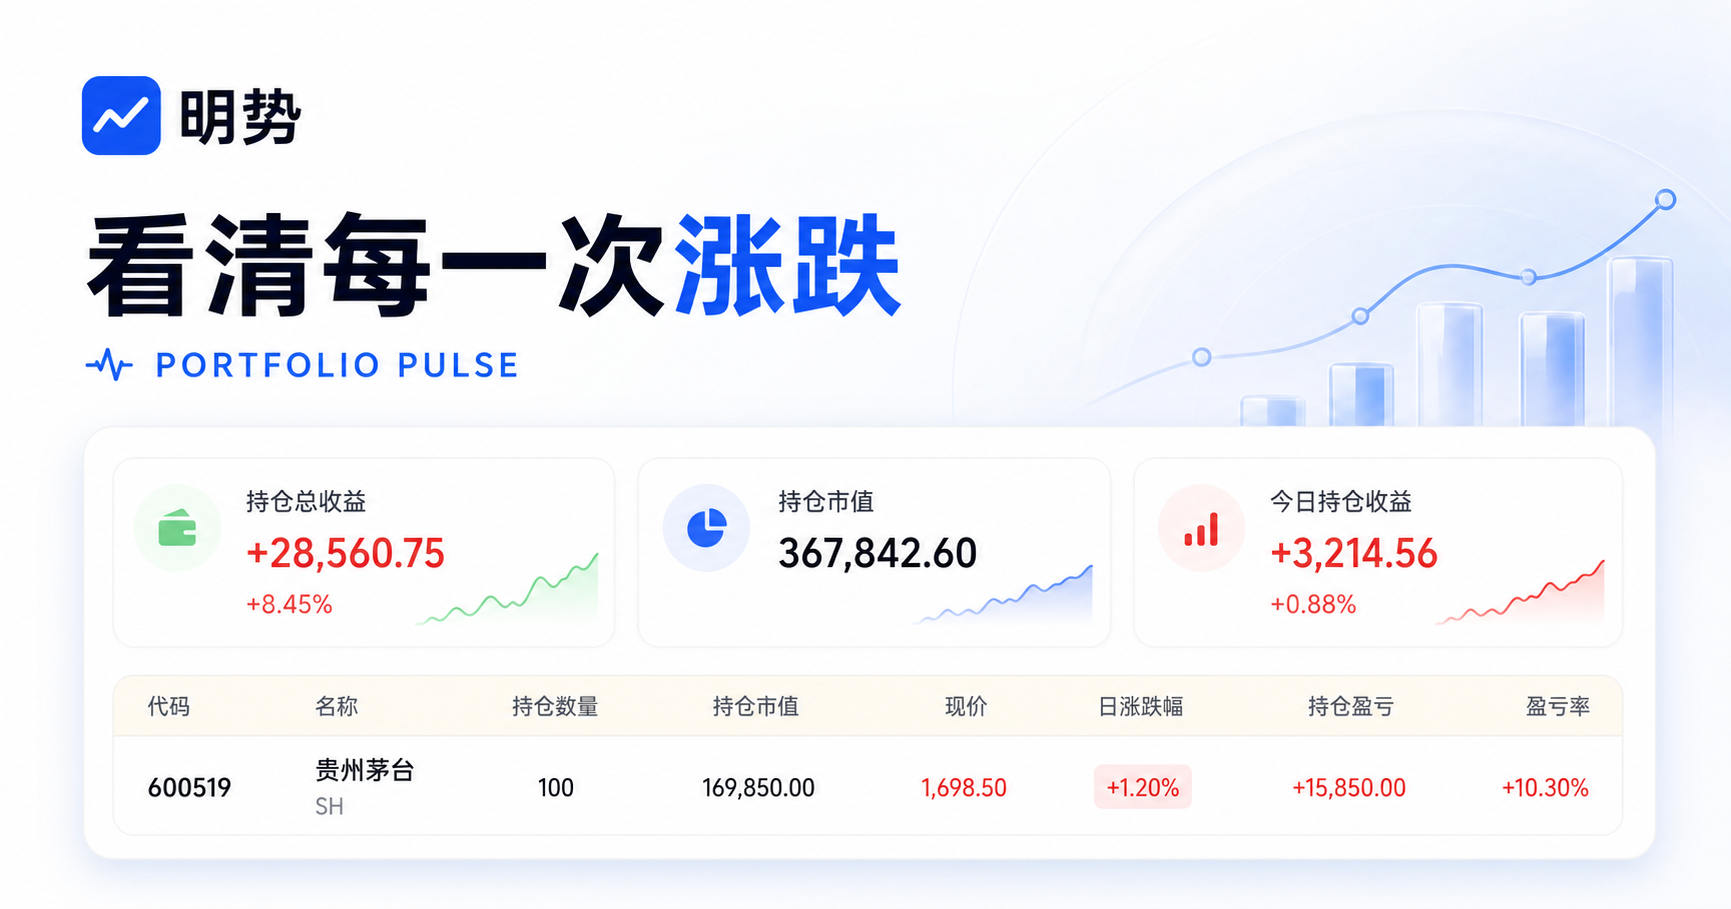
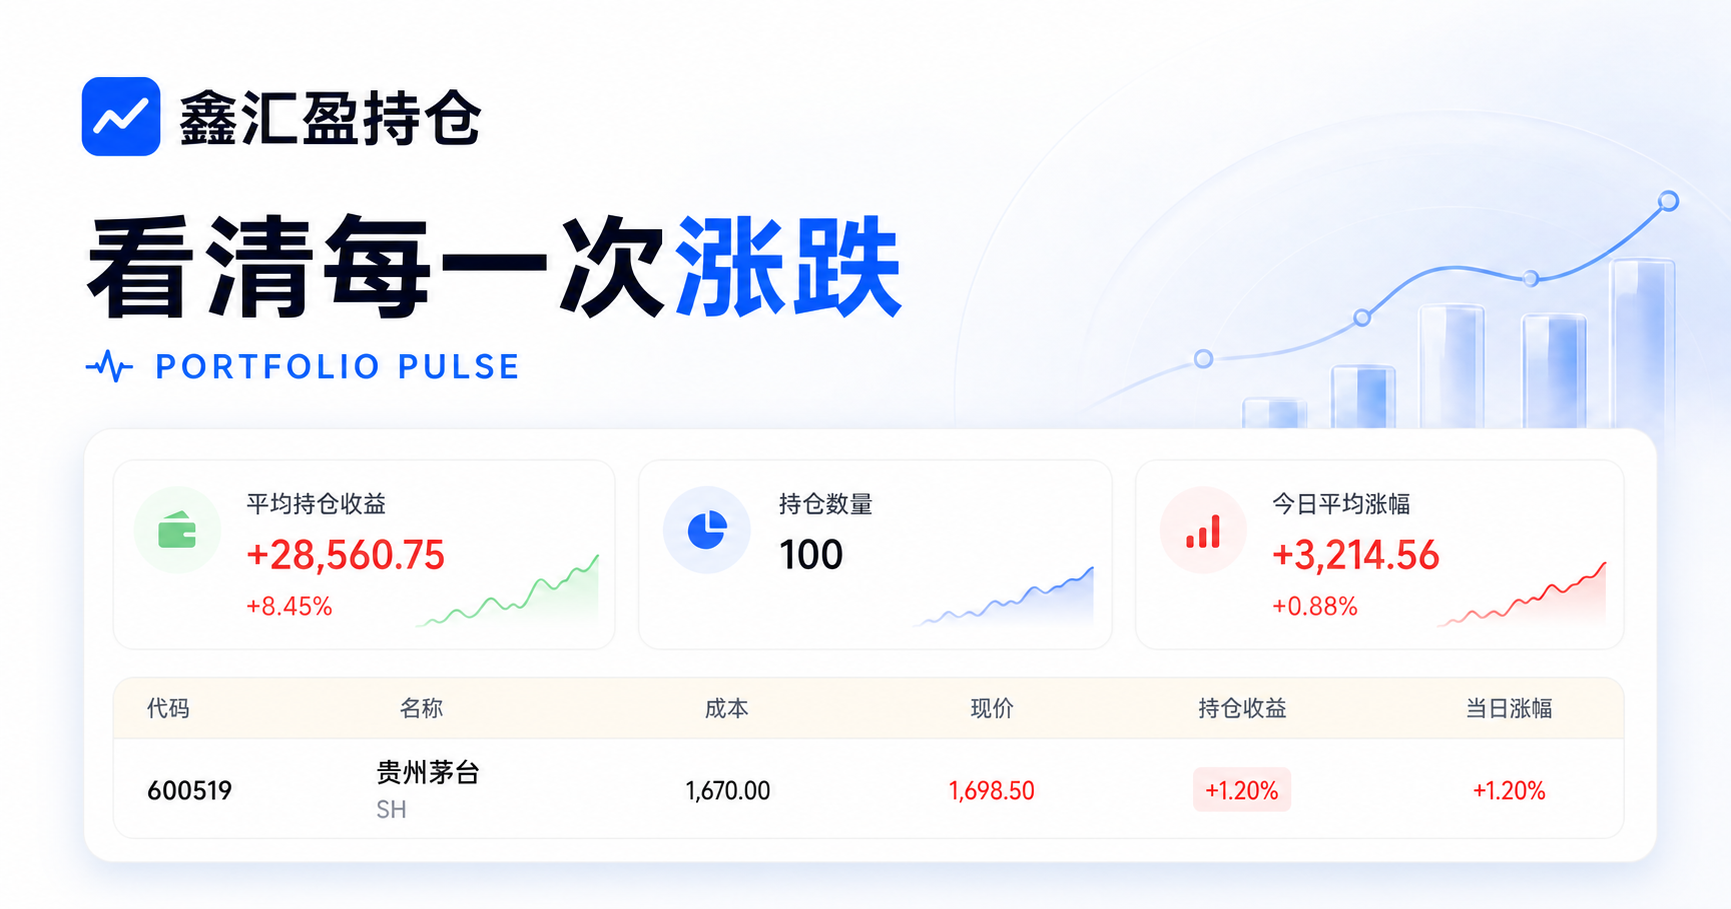
Remove share count and rename dashboard

diff --git a/app/page.tsx b/app/page.tsx
@@ -2,11 +2,11 @@
 
 import { useCallback, useEffect, useMemo, useState } from "react";
 
-type Holding = { secid:string; code:string; name:string; market:string; cost:number; qty:number };
+type Holding = { secid:string; code:string; name:string; market:string; cost:number };
 type Quote = { secid:string; code:string; name:string; price:number; prevClose:number; changePct:number; time:string };
 type Suggestion = { secid:string; code:string; name:string; market:string };
 
-const seed: Holding[] = [{ secid:"1.601985", code:"601985", name:"中国核电", market:"SH", cost:8.9, qty:1000 }];
+const seed: Holding[] = [{ secid:"1.601985", code:"601985", name:"中国核电", market:"SH", cost:8.9 }];
 const money = (n:number) => new Intl.NumberFormat("zh-CN",{style:"currency",currency:"CNY",minimumFractionDigits:2}).format(n);
 const signed = (n:number,suffix="%") => `${n>0?"+":n<0?"−":""}${Math.abs(n).toFixed(2)}${suffix}`;
 
@@ -18,7 +18,6 @@ export default function Home() {
   const [suggestions,setSuggestions] = useState<Suggestion[]>([]);
   const [selected,setSelected] = useState<Suggestion|null>(null);
   const [cost,setCost] = useState("");
-  const [qty,setQty] = useState("100");
   const [loading,setLoading] = useState(false);
   const [updated,setUpdated] = useState("正在连接行情");
   const [error,setError] = useState("");
@@ -47,36 +46,37 @@ export default function Home() {
   },[query,selected]);
 
   const stats=useMemo(()=>{
-    let value=0,costValue=0,today=0,prev=0;
-    holdings.forEach(h=>{const q=quotes[h.secid];if(!q)return;value+=q.price*h.qty;costValue+=h.cost*h.qty;today+=(q.price-q.prevClose)*h.qty;prev+=q.prevClose*h.qty});
-    return {value,profit:value-costValue,profitPct:costValue?(value-costValue)/costValue*100:0,today,todayPct:prev?today/prev*100:0};
+    const active=holdings.map(h=>({h,q:quotes[h.secid]})).filter(x=>x.q);
+    const profitPct=active.length?active.reduce((s,{h,q})=>s+(q.price-h.cost)/h.cost*100,0)/active.length:0;
+    const todayPct=active.length?active.reduce((s,{q})=>s+q.changePct,0)/active.length:0;
+    return {profitPct,todayPct};
   },[holdings,quotes]);
 
-  function close(){setModal(false);setQuery("");setSelected(null);setCost("");setQty("100");setSuggestions([])}
-  function add(){if(!selected||Number(cost)<=0||Number(qty)<=0)return;setHoldings(v=>[...v.filter(h=>h.secid!==selected.secid),{...selected,cost:Number(cost),qty:Number(qty)}]);close()}
+  function close(){setModal(false);setQuery("");setSelected(null);setCost("");setSuggestions([])}
+  function add(){if(!selected||Number(cost)<=0)return;setHoldings(v=>[...v.filter(h=>h.secid!==selected.secid),{...selected,cost:Number(cost)}]);close()}
   function choose(s:Suggestion){setSelected(s);setQuery(`${s.name}  ${s.code}.${s.market}`);setSuggestions([])}
 
   return <main>
-    <header className="topbar"><div className="brand"><span className="brandMark">↗</span><span>明势</span></div><div className="market"><i /> A股行情 <span>{loading?"更新中…":`更新于 ${updated}`}</span></div></header>
+    <header className="topbar"><div className="brand"><span className="brandMark">↗</span><span>鑫汇盈持仓</span></div><div className="market"><i /> A股行情 <span>{loading?"更新中…":`更新于 ${updated}`}</span></div></header>
     <section className="hero"><div><p className="eyebrow">PORTFOLIO PULSE</p><h1>看清每一次涨跌</h1><p className="subtitle">把关注的持仓放在一起，价格、涨幅和收益一目了然。</p></div><button className="primary" onClick={()=>setModal(true)}>＋ 添加个股</button></section>
     <section className="summary">
-      <div><span>持仓总收益</span><strong className={stats.profit>=0?"up":"down"}>{money(stats.profit)}</strong><small>{signed(stats.profitPct)}</small></div>
-      <div><span>持仓市值</span><strong>{money(stats.value)}</strong><small>{holdings.length} 个持仓</small></div>
-      <div><span>今日持仓收益</span><strong className={stats.today>=0?"up":"down"}>{money(stats.today)}</strong><small>{signed(stats.todayPct)} · 盘中</small></div>
+      <div><span>平均持仓收益</span><strong className={stats.profitPct>=0?"up":"down"}>{signed(stats.profitPct)}</strong><small>按个股等权计算</small></div>
+      <div><span>持仓数量</span><strong>{holdings.length}</strong><small>只股票</small></div>
+      <div><span>今日平均涨幅</span><strong className={stats.todayPct>=0?"up":"down"}>{signed(stats.todayPct)}</strong><small>实时行情 · 盘中</small></div>
     </section>
     <section className="card">
       <div className="cardHead"><div><h2>我的持仓</h2><p>{error||"每 15 秒自动刷新 · 公开行情数据仅供参考"}</p></div><button className="refresh" onClick={refresh} disabled={loading}>{loading?"刷新中":"↻ 刷新"}</button></div>
-      <div className="tableWrap"><table><thead><tr><th>代码 / 名称</th><th>成本</th><th>现价</th><th>持仓收益</th><th>当日涨幅</th><th>市值</th><th /></tr></thead><tbody>
-        {holdings.map(h=>{const q=quotes[h.secid];const price=q?.price||0;const gain=h.cost?(price-h.cost)/h.cost*100:0;const gainMoney=(price-h.cost)*h.qty;return <tr key={h.secid}><td><b>{q?.name||h.name}</b><span>{h.code}.{h.market}</span></td><td>{money(h.cost)}<span>{h.qty.toLocaleString()} 股</span></td><td>{q?<b>{money(price)}</b>:<span className="skeleton">获取中</span>}</td><td className={gainMoney>=0?"up":"down"}><b>{q?signed(gain):"—"}</b><span>{q?money(gainMoney):"—"}</span></td><td><em className={`pill ${(q?.changePct||0)>=0?"up":"down"}`}>{q?signed(q.changePct):"—"}</em></td><td><b>{q?money(price*h.qty):"—"}</b></td><td><button className="remove" aria-label={`删除${h.name}`} onClick={()=>setHoldings(v=>v.filter(x=>x.secid!==h.secid))}>×</button></td></tr>})}
-        {!holdings.length&&<tr><td colSpan={7} className="empty"><b>还没有持仓</b><span>添加一只股票，行情会自动出现在这里。</span><button onClick={()=>setModal(true)}>添加第一只</button></td></tr>}
+      <div className="tableWrap"><table><thead><tr><th>代码 / 名称</th><th>成本</th><th>现价</th><th>持仓收益</th><th>当日涨幅</th><th /></tr></thead><tbody>
+        {holdings.map(h=>{const q=quotes[h.secid];const price=q?.price||0;const gain=h.cost?(price-h.cost)/h.cost*100:0;return <tr key={h.secid}><td><b>{q?.name||h.name}</b><span>{h.code}.{h.market}</span></td><td>{money(h.cost)}</td><td>{q?<b>{money(price)}</b>:<span className="skeleton">获取中</span>}</td><td className={gain>=0?"up":"down"}><b>{q?signed(gain):"—"}</b></td><td><em className={`pill ${(q?.changePct||0)>=0?"up":"down"}`}>{q?signed(q.changePct):"—"}</em></td><td><button className="remove" aria-label={`删除${h.name}`} onClick={()=>setHoldings(v=>v.filter(x=>x.secid!==h.secid))}>×</button></td></tr>})}
+        {!holdings.length&&<tr><td colSpan={6} className="empty"><b>还没有持仓</b><span>添加一只股票，行情会自动出现在这里。</span><button onClick={()=>setModal(true)}>添加第一只</button></td></tr>}
       </tbody></table></div>
     </section>
     <footer>投资有风险，市场行情可能存在延迟，本看板不构成投资建议。</footer>
     {modal&&<div className="overlay" onMouseDown={e=>e.target===e.currentTarget&&close()}><div className="modal" role="dialog" aria-modal="true" aria-label="添加持仓"><button className="close" onClick={close}>×</button><p className="eyebrow">NEW POSITION</p><h2>添加一只持仓</h2><p className="modalLead">输入股票名称或 6 位代码，我们会自动匹配。</p>
       <label>股票</label><div className="searchBox"><span>⌕</span><input autoFocus value={query} placeholder="例如：中国核电 / 601985" onChange={e=>{setQuery(e.target.value);setSelected(null)}} /></div>
       {!!suggestions.length&&<div className="suggestions">{suggestions.map(s=><button key={s.secid} onClick={()=>choose(s)}><span><b>{s.name}</b><small>{s.code}.{s.market}</small></span><i>选择</i></button>)}</div>}
-      <div className="formRow"><div><label>持仓成本（元）</label><input type="number" min="0" step="0.01" value={cost} placeholder="8.90" onChange={e=>setCost(e.target.value)} /></div><div><label>持仓数量（股）</label><input type="number" min="1" step="100" value={qty} onChange={e=>setQty(e.target.value)} /></div></div>
-      <button className="submit" disabled={!selected||Number(cost)<=0||Number(qty)<=0} onClick={add}>添加到看板</button>
+      <div className="formRow"><div><label>持仓成本（元）</label><input type="number" min="0" step="0.01" value={cost} placeholder="8.90" onChange={e=>setCost(e.target.value)} /></div></div>
+      <button className="submit" disabled={!selected||Number(cost)<=0} onClick={add}>添加到看板</button>
     </div></div>}
   </main>
 }

diff --git a/app/globals.css b/app/globals.css
@@ -7,4 +7,5 @@ main{min-height:100vh;background:radial-gradient(circle at 90% 0,#e9efff 0,trans
 .summary{max-width:1128px;margin:0 auto 20px;display:grid;grid-template-columns:1.15fr 1fr 1fr;background:#fff;border:1px solid var(--line);border-radius:18px;box-shadow:0 12px 40px #14233d0a;overflow:hidden}.summary div{padding:22px 26px;display:grid;gap:7px}.summary div+div{border-left:1px solid var(--line)}.summary span,.summary small{color:var(--muted);font-size:12px}.summary strong{font-size:25px;letter-spacing:-.5px}.summary small{display:block}.down{color:var(--green)!important}.up{color:var(--red)!important}
 .card{max-width:1128px;margin:0 auto 80px;background:#fff;border:1px solid var(--line);border-radius:18px;box-shadow:0 12px 40px #14233d0a;overflow:hidden}.cardHead{padding:24px 26px 18px;display:flex;justify-content:space-between;align-items:center}.cardHead h2{font-size:18px;margin:0 0 5px}.cardHead p{font-size:12px;color:#929cab;margin:0}.refresh{border:1px solid var(--line);background:#fff;border-radius:10px;padding:9px 13px;color:#667282}.tableWrap{overflow:auto}table{width:100%;border-collapse:collapse}th{background:var(--cream);color:#9a7d40;text-align:left;font-size:11px;letter-spacing:.06em;padding:13px 26px}td{padding:20px 26px;border-top:1px solid var(--line);font-size:14px}td span{display:block;color:#929cab;font-size:11px;margin-top:5px}td b{font-size:15px}.pill{font-style:normal;padding:7px 10px;border-radius:8px;background:#eaf8f1;font-weight:700;font-size:13px}.pill.up{background:#fff0f1}.remove{width:30px;height:30px;border:0;border-radius:9px;background:transparent;color:#b1b8c2;font-size:20px;cursor:pointer}.remove:hover{background:#fff0f1;color:var(--red)}.refresh:disabled{opacity:.55}.skeleton{display:inline-block!important;background:#eef1f5;color:#9ba4b0!important;border-radius:6px;padding:5px 9px;margin:0!important}.empty{text-align:center!important;padding:55px!important;color:#8b95a3}.empty b,.empty span{display:block}.empty span{margin:8px 0 18px}.empty button{border:0;background:#edf2ff;color:var(--blue);border-radius:9px;padding:9px 13px;font-weight:700}footer{text-align:center;color:#9aa3af;font-size:11px;padding:0 20px 28px}
 .overlay{position:fixed;inset:0;z-index:20;background:#17243455;backdrop-filter:blur(8px);display:grid;place-items:center;padding:18px}.modal{width:min(510px,100%);background:#fff;border-radius:24px;padding:32px;position:relative;box-shadow:0 30px 90px #17243436}.modal h2{font-size:28px;letter-spacing:-.6px;margin:0 0 8px}.modalLead{color:var(--muted);margin:0 0 26px;font-size:14px}.close{position:absolute;right:22px;top:20px;border:0;background:#f2f4f7;color:#748091;border-radius:50%;width:34px;height:34px;font-size:20px;cursor:pointer}.modal label{display:block;font-size:12px;font-weight:700;margin:0 0 8px}.searchBox{height:50px;border:1px solid #dfe4eb;border-radius:12px;display:flex;align-items:center;padding:0 14px;gap:10px}.searchBox:focus-within{border-color:var(--blue);box-shadow:0 0 0 3px #2f63ff15}.searchBox span{font-size:20px;color:#9ba4b0}.searchBox input,.formRow input{border:0;outline:0;width:100%;font:inherit;color:var(--ink);background:transparent}.suggestions{border:1px solid var(--line);border-radius:12px;margin-top:6px;overflow:hidden;box-shadow:0 10px 30px #17243412}.suggestions button{display:flex;width:100%;justify-content:space-between;align-items:center;text-align:left;background:#fff;border:0;padding:12px 15px;cursor:pointer}.suggestions button+button{border-top:1px solid var(--line)}.suggestions button:hover{background:#f7f9ff}.suggestions small{display:block;color:#929cab;margin-top:4px}.suggestions i{font-style:normal;color:var(--blue);font-size:12px}.formRow{display:grid;grid-template-columns:1fr 1fr;gap:14px;margin-top:18px}.formRow input{height:48px;border:1px solid #dfe4eb;border-radius:12px;padding:0 13px}.formRow input:focus{border-color:var(--blue);box-shadow:0 0 0 3px #2f63ff15}.submit{width:100%;height:50px;border:0;border-radius:12px;background:var(--blue);color:white;font-weight:800;margin-top:24px;cursor:pointer}.submit:disabled{background:#d8dde7;color:#9ba4b0;cursor:not-allowed}
+.formRow:has(>div:only-child){grid-template-columns:1fr}
 @media(max-width:700px){.hero{margin-top:35px;align-items:flex-start;gap:28px;flex-direction:column}.hero h1{font-size:38px}.summary{margin:0 18px 18px;grid-template-columns:1fr}.summary div+div{border-left:0;border-top:1px solid var(--line)}.card{margin:0 18px 50px}.topbar{padding:0 18px}.market span{display:none}th,td{white-space:nowrap;padding-left:18px;padding-right:18px}}

diff --git a/app/layout.tsx b/app/layout.tsx
@@ -18,7 +18,7 @@ export async function generateMetadata(): Promise<Metadata> {
   const host = h.get("x-forwarded-host") || h.get("host") || "localhost:3000";
   const protocol = h.get("x-forwarded-proto") || (host.includes("localhost") ? "http" : "https");
   const image = `${protocol}://${host}/og.png`;
-  const title = "明势 · 实时持仓看板";
+  const title = "鑫汇盈持仓 · 实时持仓看板";
   const description = "添加你的 A 股持仓，实时查看现价、当日涨幅与持仓收益。";
   return { title, description, icons:{icon:"/favicon.svg",shortcut:"/favicon.svg"}, openGraph:{title,description,images:[image]}, twitter:{card:"summary_large_image",title,description,images:[image]} };
 }
